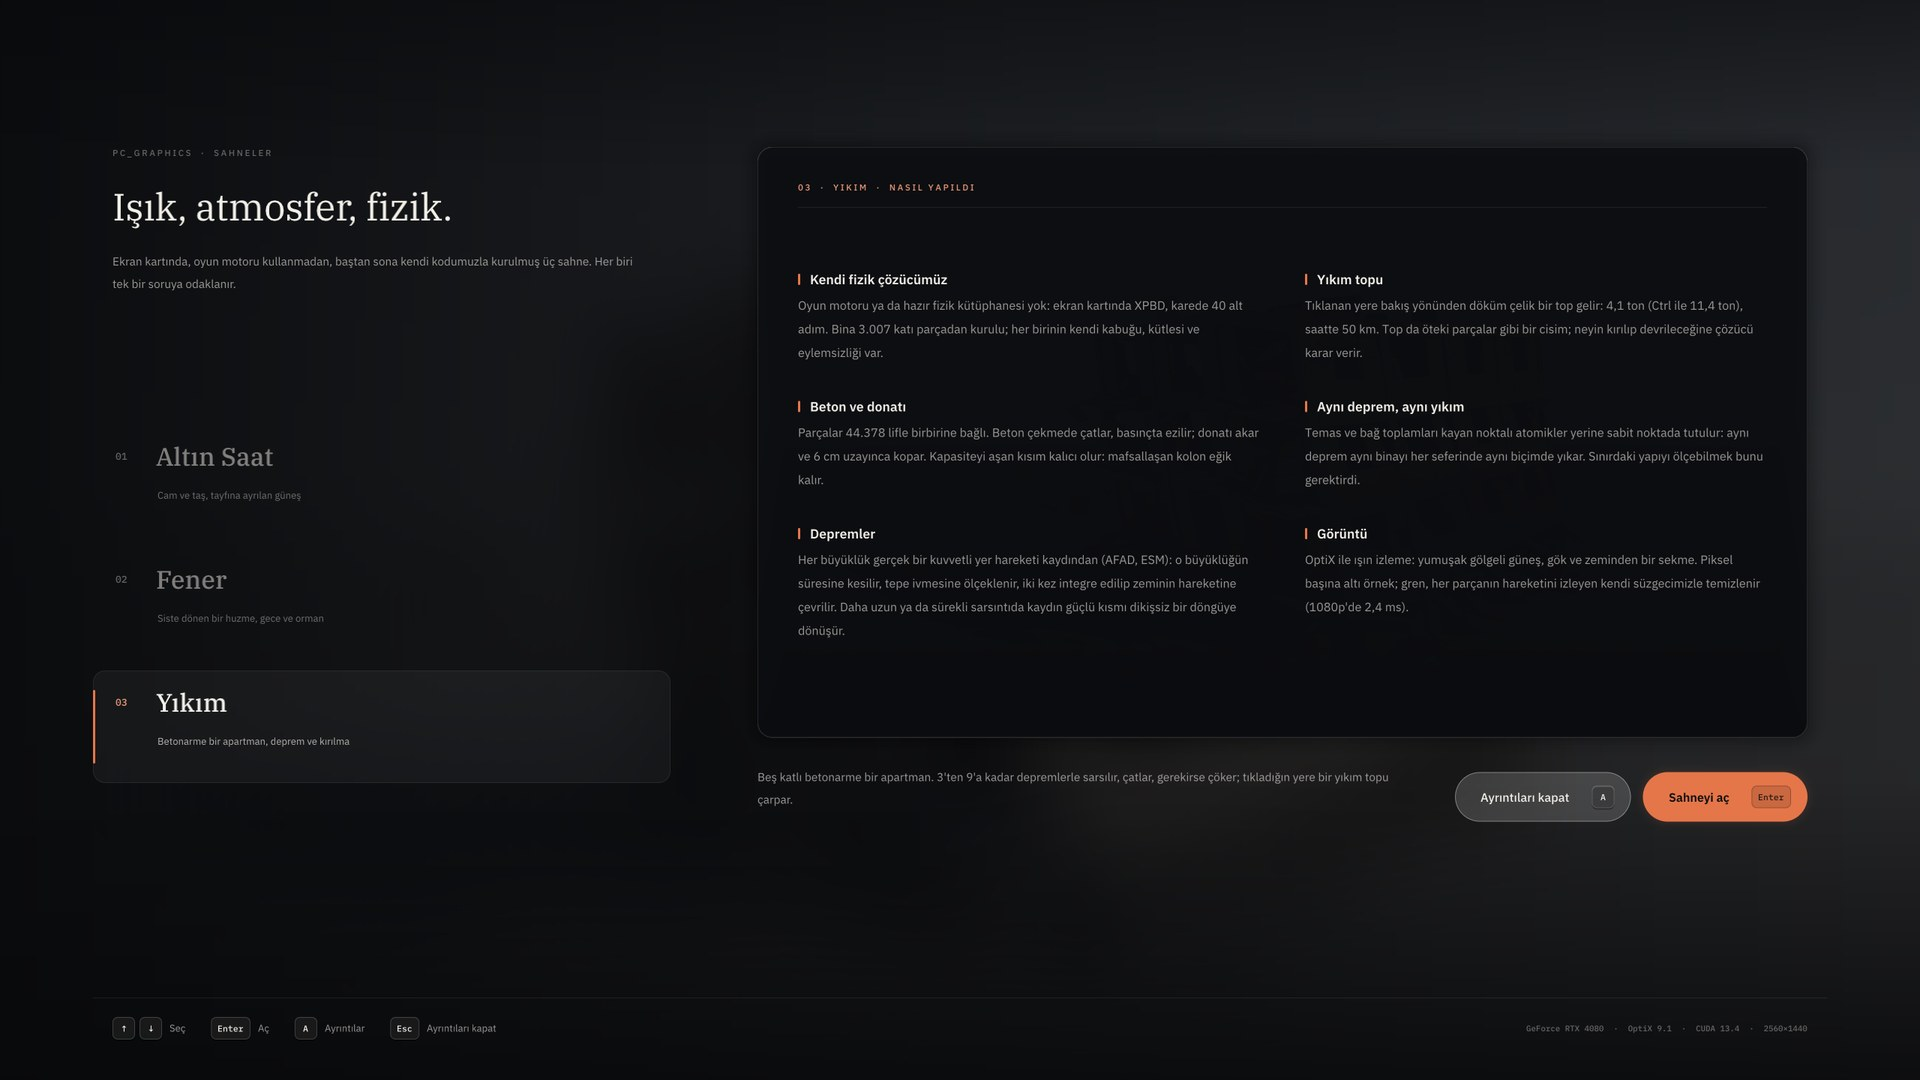
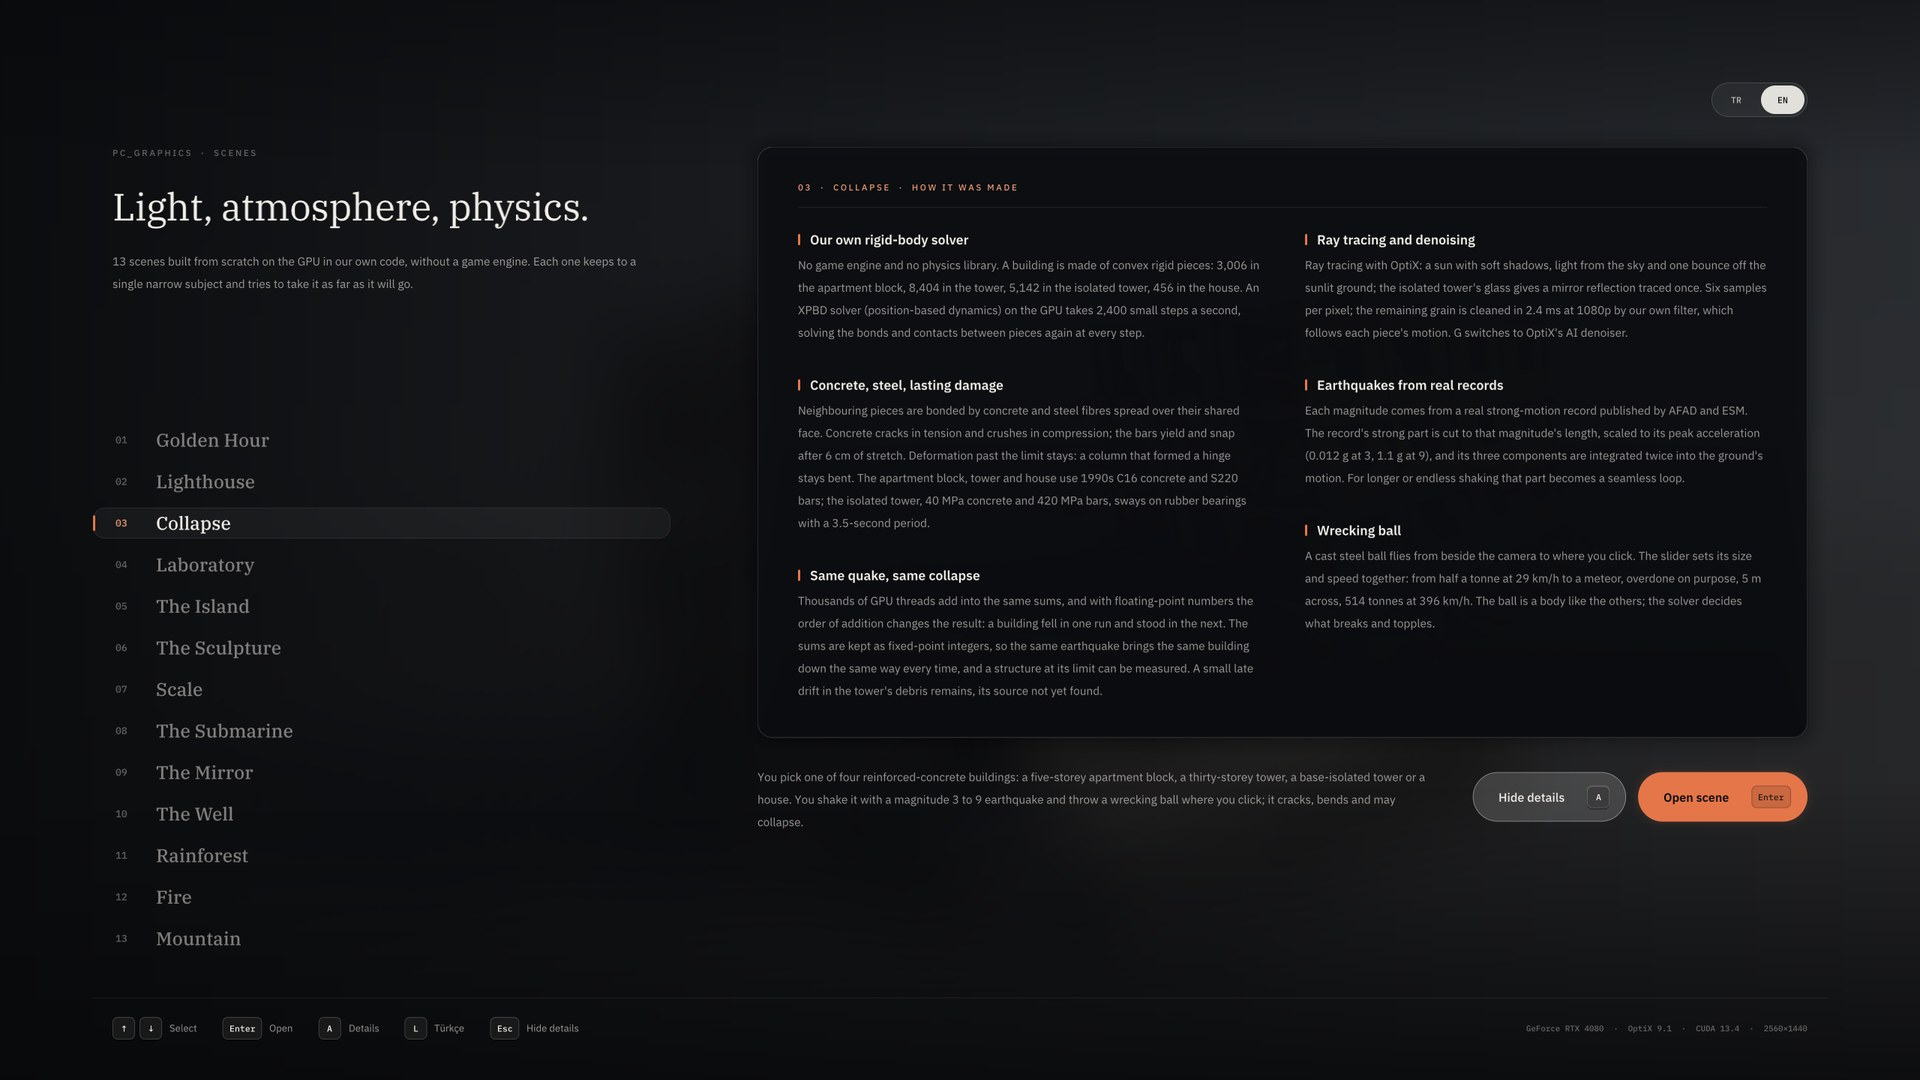
docs(readme): show the current app in both languages
The gallery and details screens are new captures in English for
README.md and in Turkish for README.tr.md, which gets its own scene and
help screens from the morning's 2560x1440 run. The English scene and
help screens are still the old ones; they are retaken with the monitor
on, since frame timings captured with it off are not the machine's.

Assisted-by: Claude Code

diff --git a/README.tr.md b/README.tr.md
@@ -79,9 +79,9 @@ ya da galeride sağ üstte TR | EN).
 
 | Galeri | Ayrıntılar: nasıl yapıldı |
 | --- | --- |
-| ![Galeri: sahneler numaralı bir listede, seçilen sağda büyük, açıklaması, Ayrıntılar ve Aç düğmeleri](docs/images/app-gallery.jpg) | ![Resmin üstünde Ayrıntılar paneli: sahnenin nasıl yapıldığı, iki sütunda](docs/images/app-details.jpg) |
+| ![Galeri: sahneler numaralı bir listede, seçilen sağda büyük, açıklaması, Ayrıntılar ve Aç düğmeleri](docs/images/app-gallery-tr.jpg) | ![Resmin üstünde Ayrıntılar paneli: sahnenin nasıl yapıldığı, iki sütunda](docs/images/app-details-tr.jpg) |
 | **Çalışan bir sahne** | **Tuşları (F1)** |
-| ![Arayüzün altında çalışan bir sahne: sol altta adı ve denetimleri, sağ üstte süreler](docs/images/app-scene.jpg) | ![Yardım paneli: sahnenin tuşları gruplar hâlinde, yanında genel tuşlar](docs/images/app-help.jpg) |
+| ![Arayüzün altında çalışan bir sahne: sol altta adı ve denetimleri, sağ üstte süreler](docs/images/app-scene-tr.jpg) | ![Yardım paneli: sahnenin tuşları gruplar hâlinde, yanında genel tuşlar](docs/images/app-help-tr.jpg) |
 
 Görünüm tek bir aile: adlar için IBM Plex Serif, metin için Sans, sayılar ve tuşlar için Mono; resmin üstünde koyu cam
 paneller ve her sahneye ışığından alınmış tek bir vurgu rengi. Bir sahne; çizicisi, ayarları ve GPU programlarıyla bir
